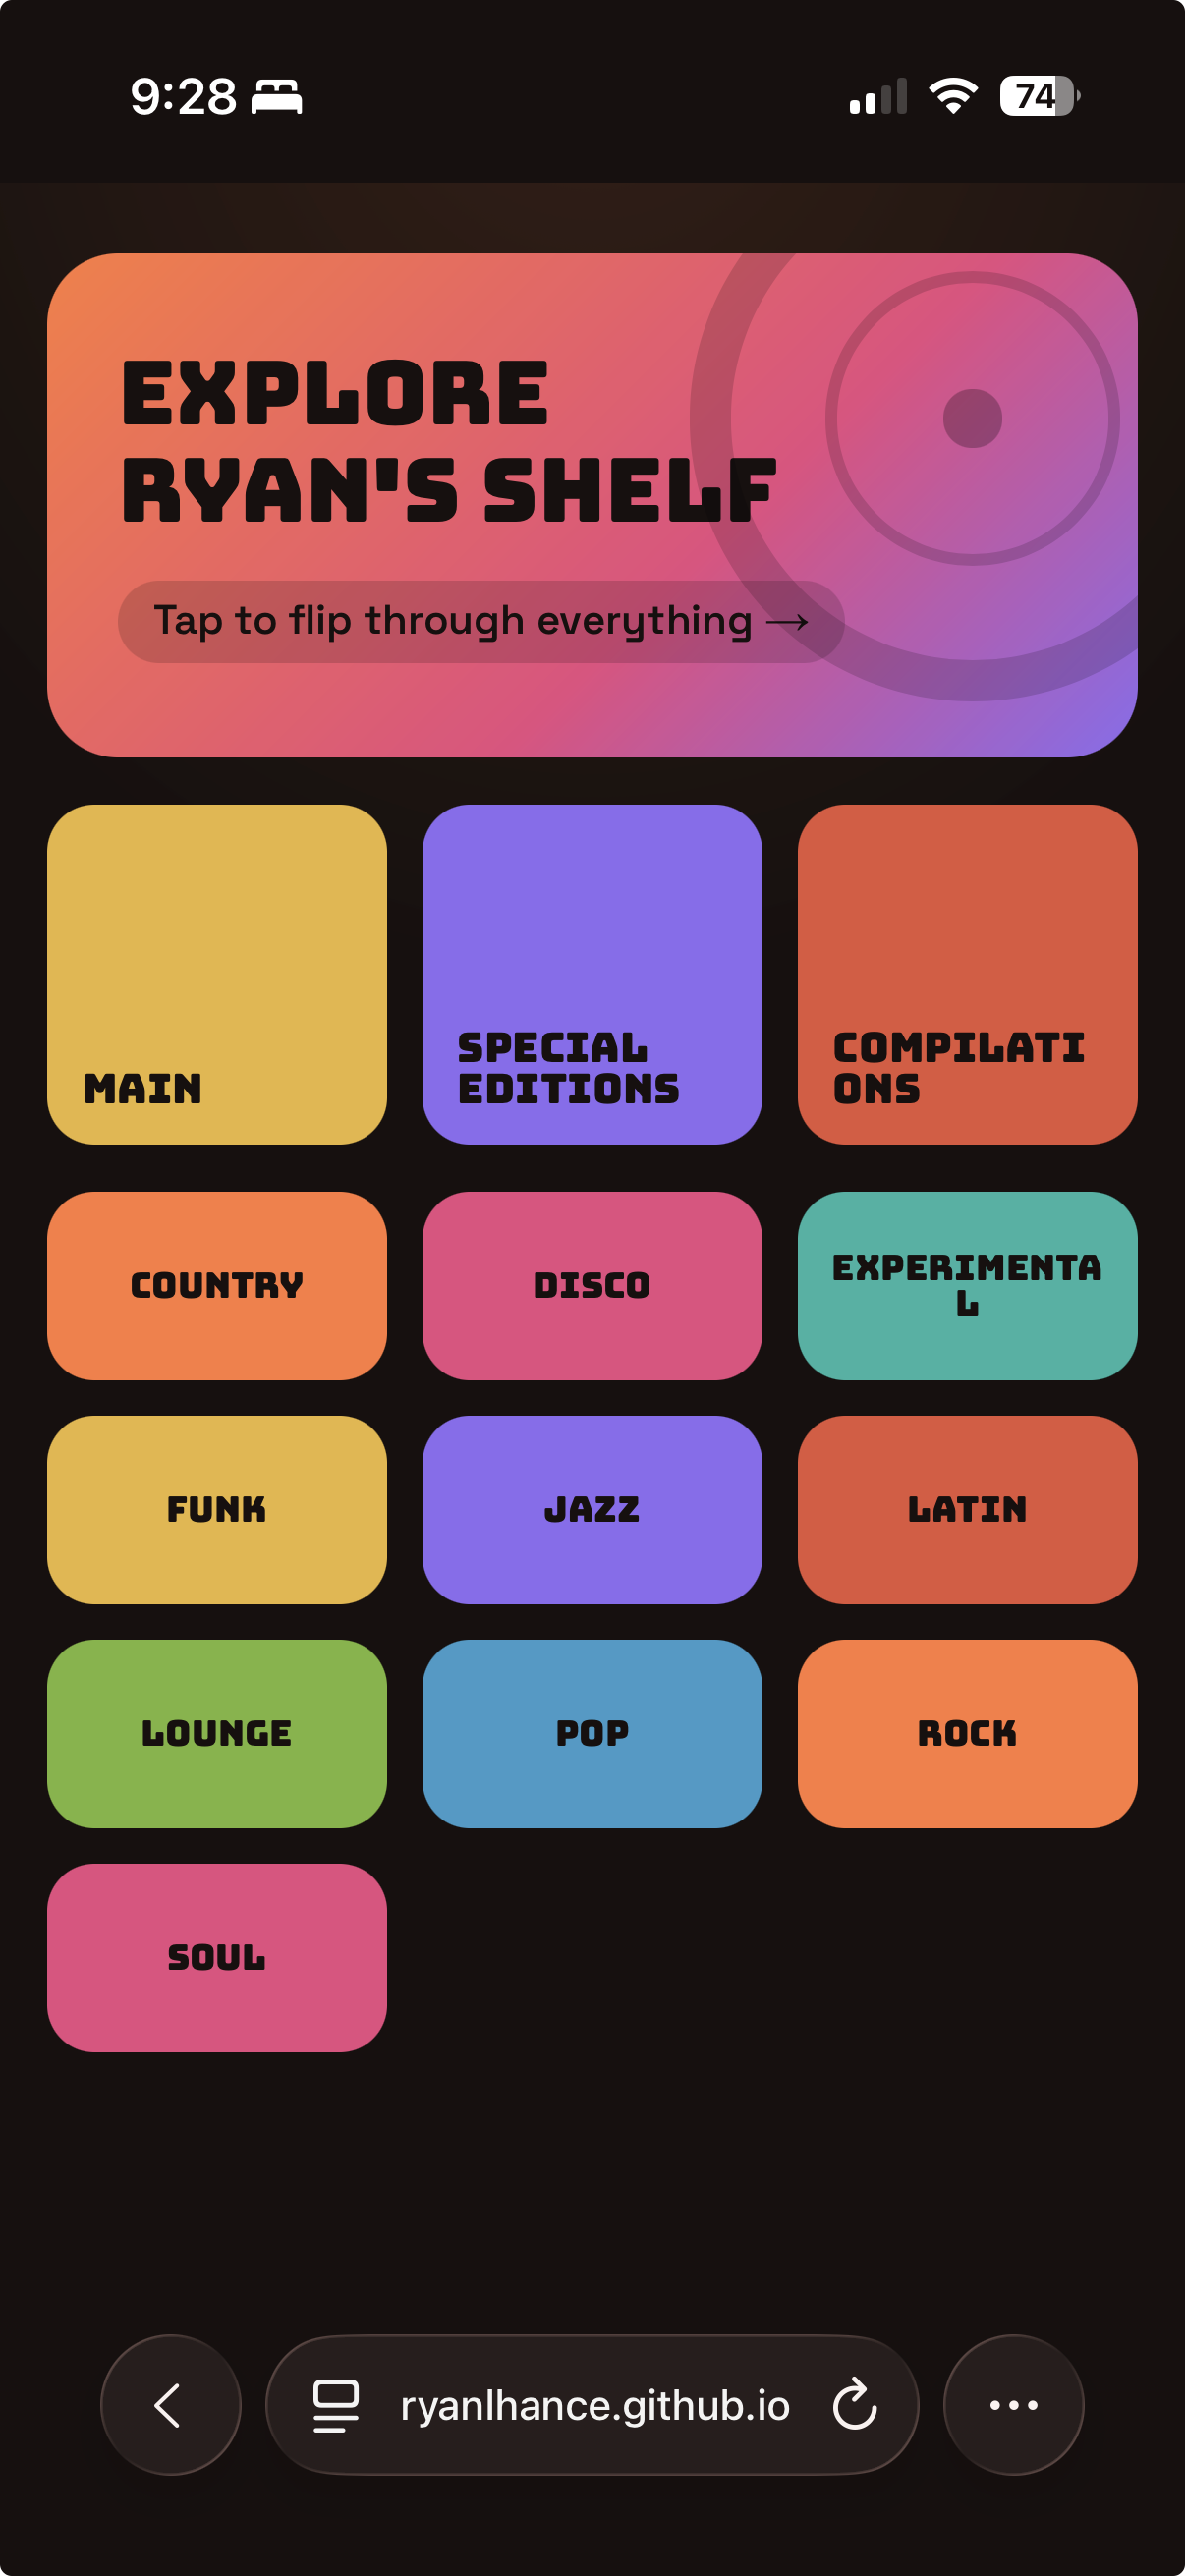
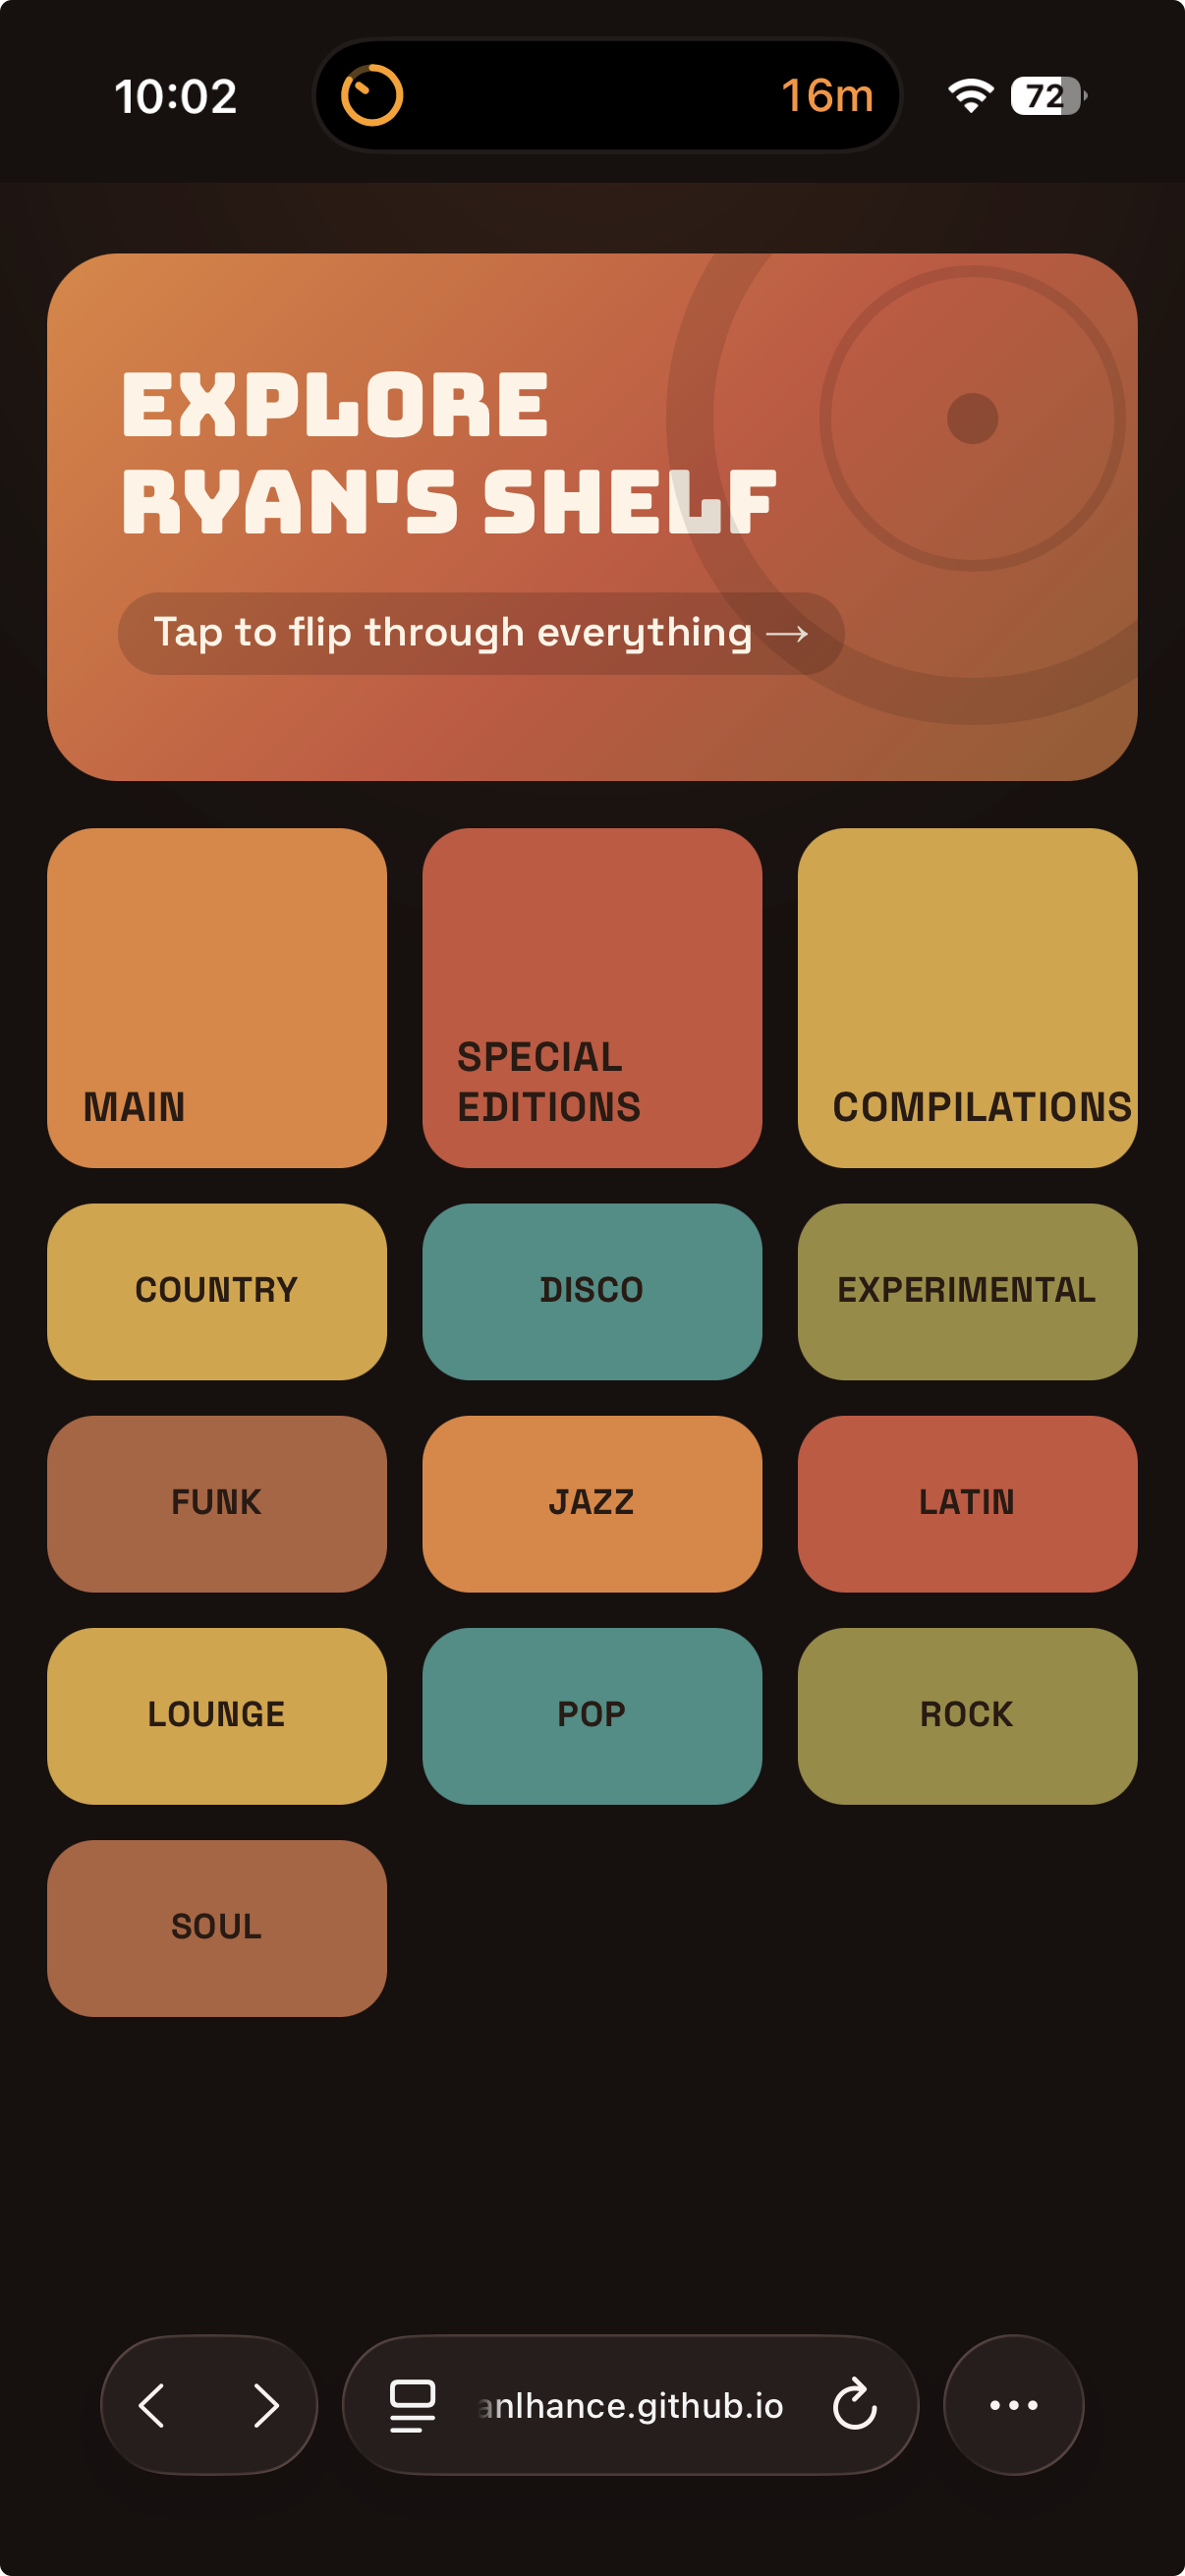
Fix sticky dismiss handle, coordinate homepage colors, harder quote cut
- Album detail: pin the grab handle (sticky) so you can swipe-to-dismiss even
  after scrolling down into the quotes
- Homepage: genres now two columns of five; coordinated single-family color
  scheme (orange tints + dark chips) instead of the scattered rainbow
- Quotes: ruthless re-audit — cut all mild/lukewarm lines, 41 -> 31 across
  22 albums, keeping only genuine laughs/stories/hot-takes

diff --git a/src/app/page.tsx b/src/app/page.tsx
@@ -1,15 +1,9 @@
 import Link from "next/link";
 import { COLLECTIONS, getGenres } from "@/lib/records";
 
-// Cohesive warm 70s record-store palette (no clashing rainbow).
-const PALETTE = [
-  "#E2833B", // orange
-  "#C9543C", // rust
-  "#D7A33C", // gold
-  "#3E8E86", // teal
-  "#9A8A3E", // olive
-  "#B0623E", // clay
-];
+// Coordinated warm scheme: three tints of the orange accent for collections,
+// dark chips with orange type for genres. One color family, not a rainbow.
+const COLLECTION_COLORS = ["#ff7a3d", "#e2542f", "#f2a73c"];
 const ink = "#2a1a12";
 
 export default function Home() {
@@ -22,7 +16,7 @@ export default function Home() {
         href="/all"
         className="group relative block overflow-hidden rounded-3xl px-6 py-9 transition active:scale-[0.98]"
         style={{
-          background: "linear-gradient(135deg,#E2833B 0%,#C9543C 55%,#9A5A2E 100%)",
+          background: "linear-gradient(135deg,#ff7a3d 0%,#e2542f 55%,#8a3f22 100%)",
           color: "#fff4e6",
         }}
       >
@@ -44,7 +38,7 @@ export default function Home() {
             key={c.type}
             href={`/collection/${c.type}`}
             className="flex aspect-square items-end rounded-2xl p-3 transition active:scale-[0.97]"
-            style={{ background: PALETTE[i % PALETTE.length], color: ink }}
+            style={{ background: COLLECTION_COLORS[i % 3], color: ink }}
           >
             <span className="text-sm font-bold uppercase leading-tight tracking-wide">
               {c.label}
@@ -53,18 +47,15 @@ export default function Home() {
         ))}
       </div>
 
-      {/* Genres */}
-      <div className="mt-3 grid grid-cols-3 gap-3">
-        {genres.map((g, i) => (
+      {/* Genres — two columns of five */}
+      <div className="mt-3 grid grid-cols-2 gap-3">
+        {genres.map((g) => (
           <Link
             key={g}
             href={`/browse/${encodeURIComponent(g.toLowerCase())}`}
-            className="flex min-h-[60px] items-center justify-center rounded-2xl p-2 text-center transition active:scale-[0.97]"
-            style={{ background: PALETTE[(i + 2) % PALETTE.length], color: ink }}
+            className="flex min-h-[56px] items-center justify-center rounded-2xl border border-white/10 bg-card text-center text-accent transition active:scale-[0.98]"
           >
-            <span className="text-xs font-bold uppercase tracking-wide">
-              {g}
-            </span>
+            <span className="text-sm font-bold uppercase tracking-wide">{g}</span>
           </Link>
         ))}
       </div>

diff --git a/src/components/AlbumDetail.tsx b/src/components/AlbumDetail.tsx
@@ -71,9 +71,9 @@ export default function AlbumDetail({
         }}
         onClick={(e) => e.stopPropagation()}
       >
-        {/* Grab handle — drag down to dismiss */}
+        {/* Grab handle — stays pinned at the top so you can always drag down to dismiss */}
         <div
-          className="-mx-6 mb-3 flex cursor-grab touch-none justify-center py-3 active:cursor-grabbing"
+          className="sticky top-0 z-10 -mx-6 -mt-2 mb-3 flex cursor-grab touch-none justify-center bg-card py-3 active:cursor-grabbing"
           onPointerDown={onPointerDown}
           onPointerMove={onPointerMove}
           onPointerUp={onPointerUp}